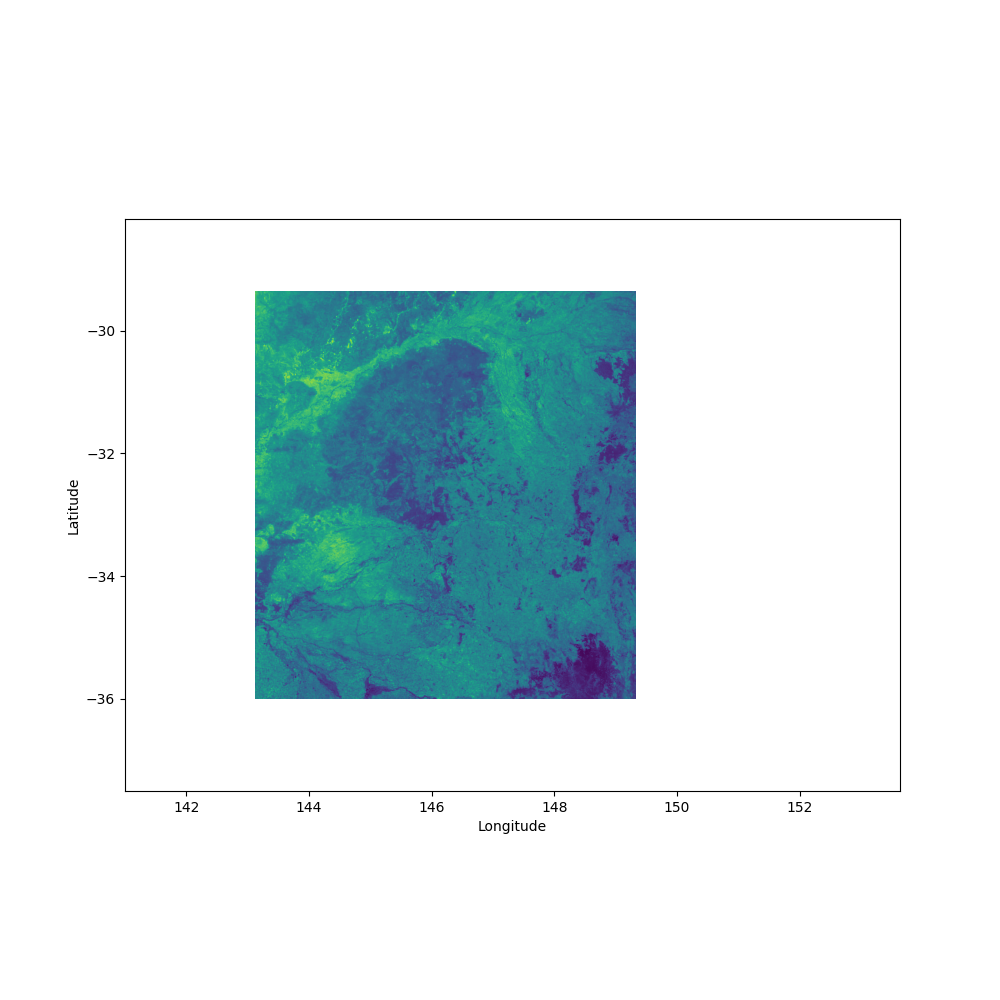
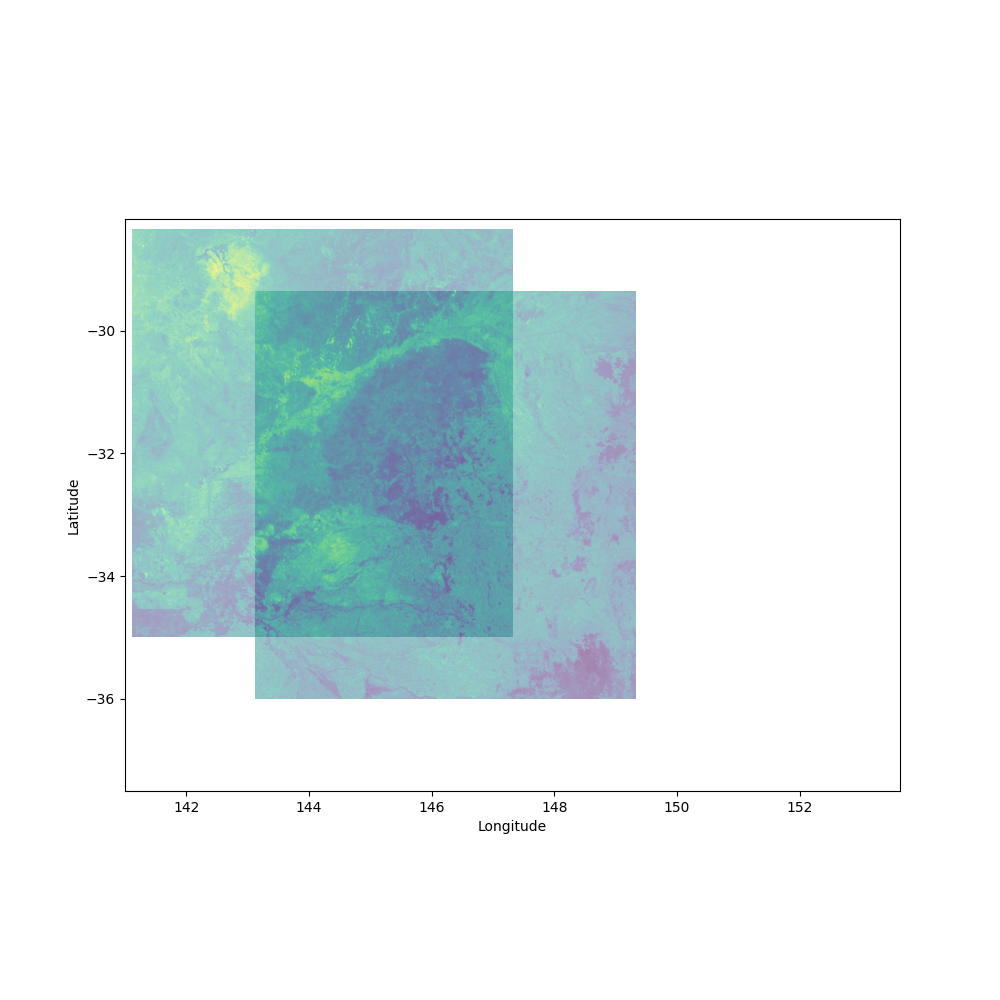
Addeed automatic swathe width plotting over time

Changed region(s): [[0.124, 0.217, 0.651, 0.713]]

diff --git a/gee/export-image.py b/gee/export-image.py
@@ -68,21 +68,19 @@ def dataset_to_tif(image, file_path, scale, band, rectangle_bounds):
     
 
 
-def tif_to_png(file_path, i):
-    with rasterio.open(file_path) as src:
-        # Read the image as a numpy array
-        img = src.read(2)  # Replace '1' with the band you want to visualize
-
-        # Get the spatial transform (geotransform)
-        transform = src.transform
-
-        # Get the spatial extent (bounding box)
-        extent = [transform[2], transform[2] + transform[0] * src.width,
-                transform[5] + transform[4] * src.height, transform[5]]
+def tif_to_png(file_paths, i):
 
         # Create a figure and plot the image
         fig, ax = plt.subplots(figsize=(10, 10))
-        im = ax.imshow(img, extent=extent)
+
+        for i, file_path in enumerate(file_paths):
+            with rasterio.open(file_path) as src:
+                img = src.read(2)  # Replace '1' with the band you want to visualize
+                transform = src.transform
+                extent = [transform[2], transform[2] + transform[0] * src.width,
+                        transform[5] + transform[4] * src.height, transform[5]]
+
+                ax.imshow(img, extent=extent, alpha=0.5)
 
         # Add a colorbar
         # cbar = plt.colorbar(im, ax=ax, fraction=0.046, pad=0.04)
@@ -114,7 +112,9 @@ def main():
         .map(calculate_ndvi) # Calculates the NDVI index
     )
 
-    for i in range(0, 1):
+    file_paths = []
+
+    for i in range(0, 4):
 
         rectangle_bounds = [141.115256 + 2*i, -28.356159 - 1*i, 147.315256 + 2*i, -34.956159 - 1*i]
 
@@ -146,7 +146,9 @@ def main():
 
         # tif --> png --> saved in files
         dataset_to_tif(infrared_clipped, file_path, scale, band, rectangle_bounds)
-        tif_to_png(file_path, i)
+        file_paths.append(file_path)
+
+    tif_to_png(file_paths, i)
 
     return 0
 
